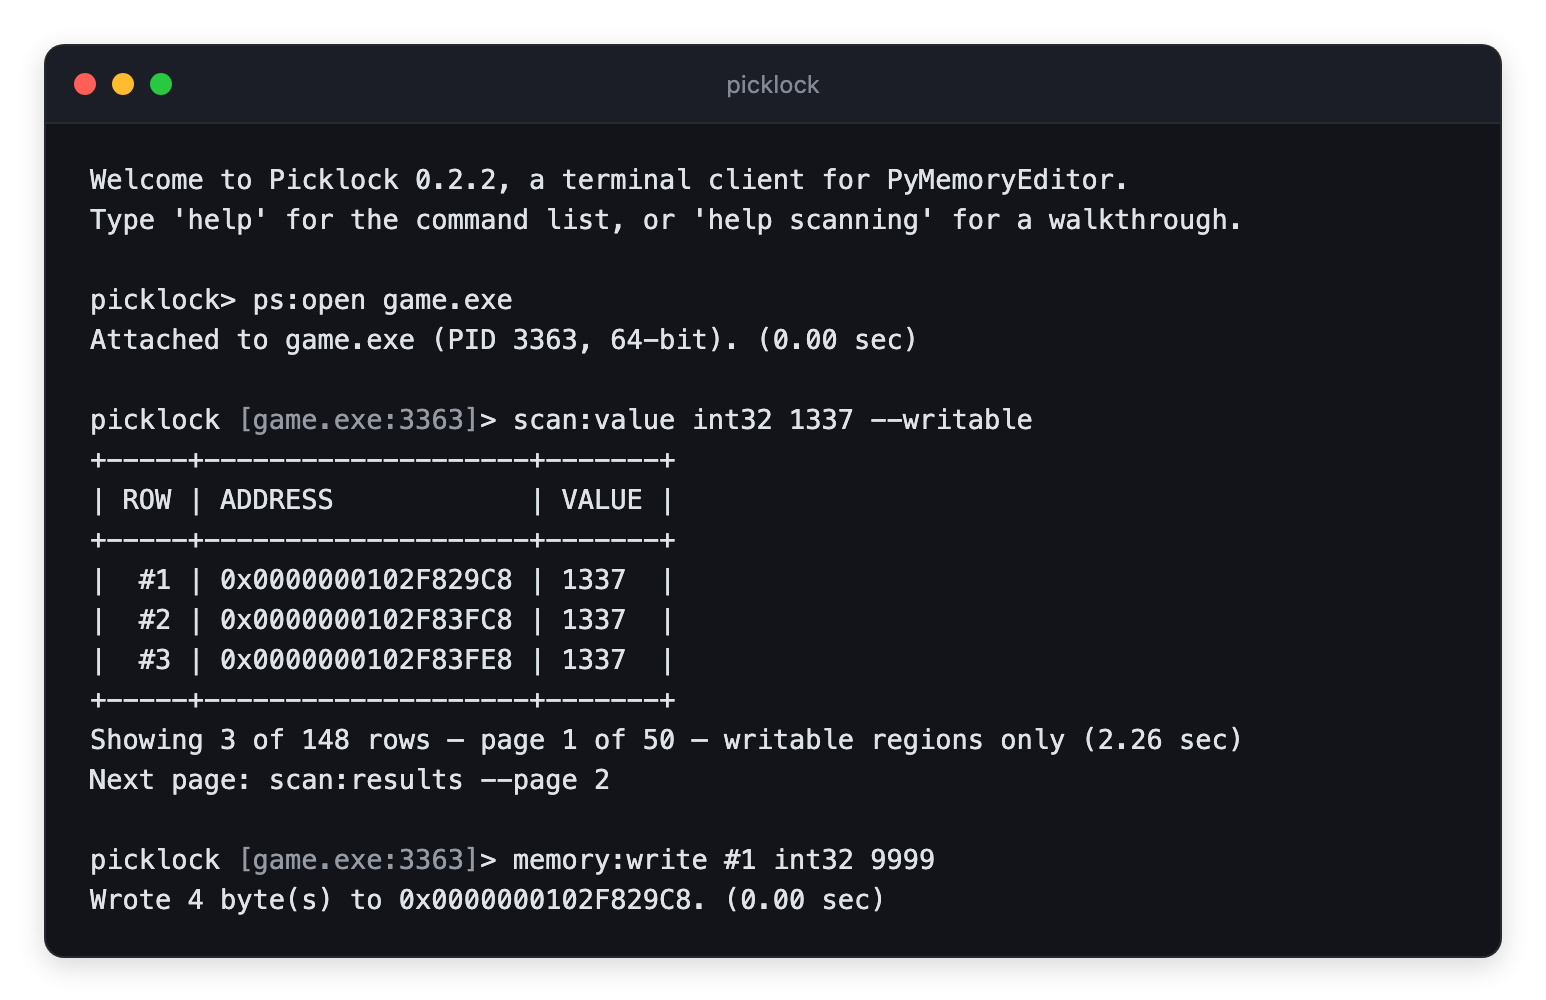
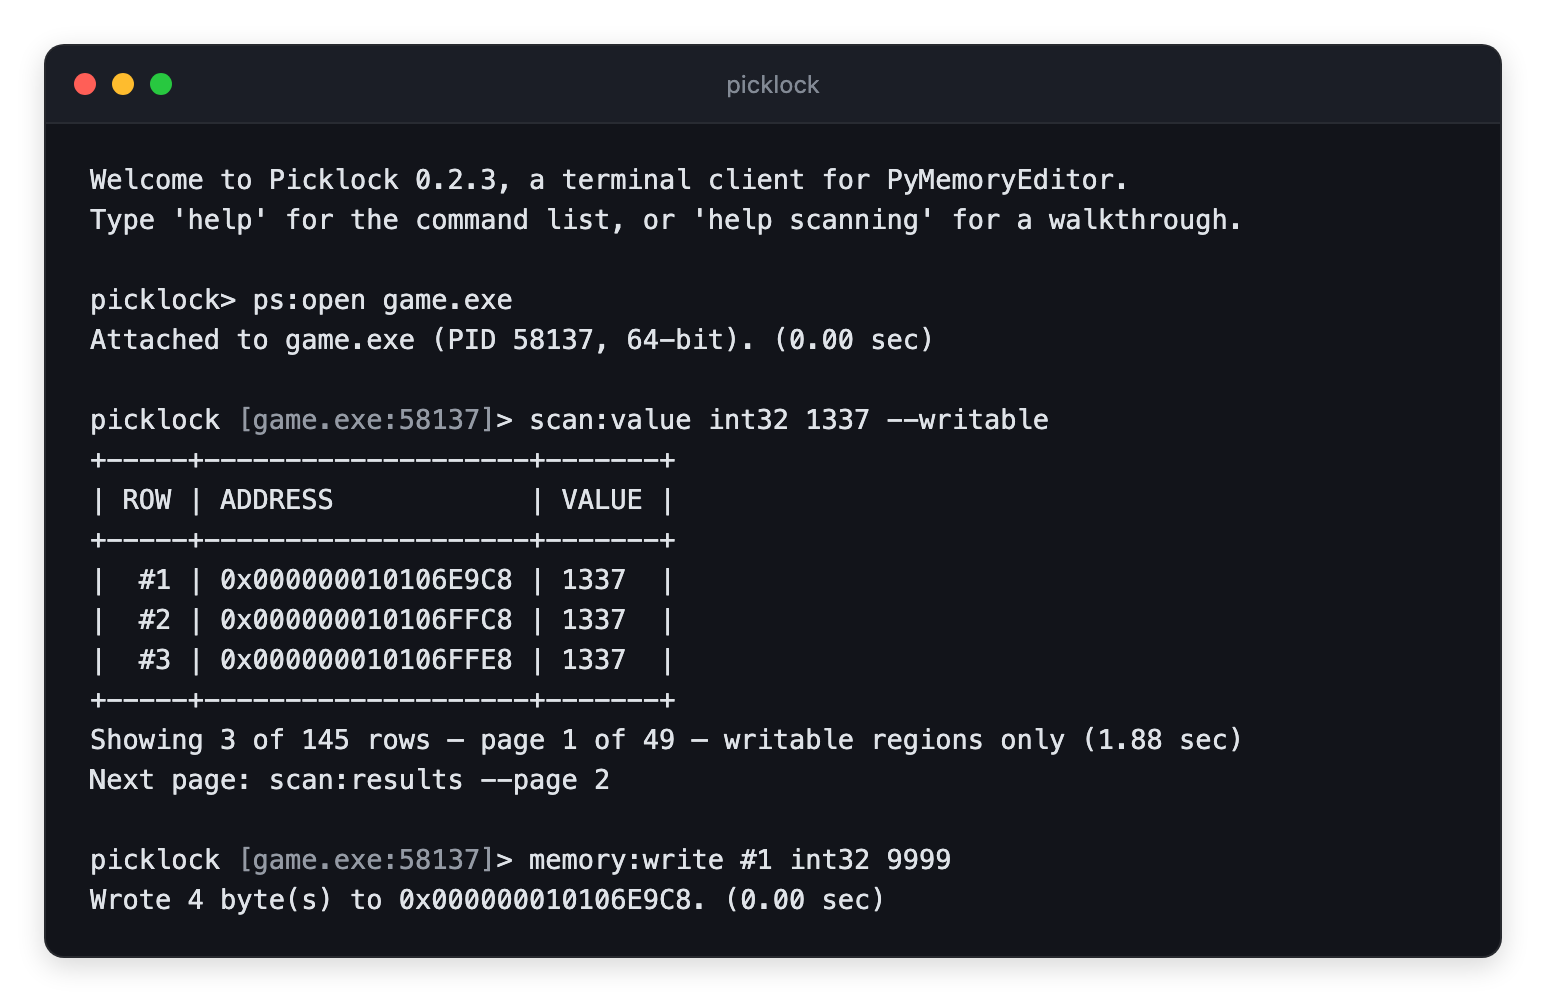
chore: carry the 0.2.3 bump into the docs and the capture
The bump moved __init__ alone. Three other places carry the version
literally — the Sphinx fallback, the quickstart's banner sample and the
terminal capture — and none of them is checked by CI, so they would have
gone stale quietly.

The capture is a fresh recording rather than an edit, so the PID, the
addresses, the row count and the timings move with it.

diff --git a/docs/conf.py b/docs/conf.py
@@ -39,7 +39,7 @@ copyright = f"{datetime.now().year}, {author}"
 try:
     from picklock import __version__ as release
 except Exception:  # pragma: no cover - docs can build without the package installed
-    release = "0.2.2"
+    release = "0.2.3"
 
 version = ".".join(release.split(".")[:2])
 

diff --git a/docs/quickstart.md b/docs/quickstart.md
@@ -10,7 +10,7 @@ picklock
 ```
 
 ```
-Welcome to Picklock 0.2.2, a terminal client for PyMemoryEditor.
+Welcome to Picklock 0.2.3, a terminal client for PyMemoryEditor.
 Type 'help' for the command list, or 'help scanning' for a walkthrough.
 
 picklock>
